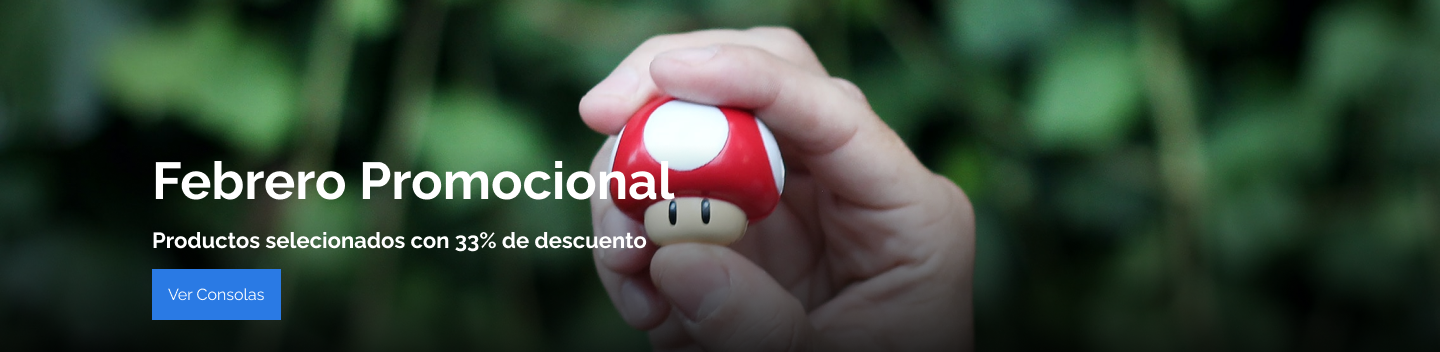
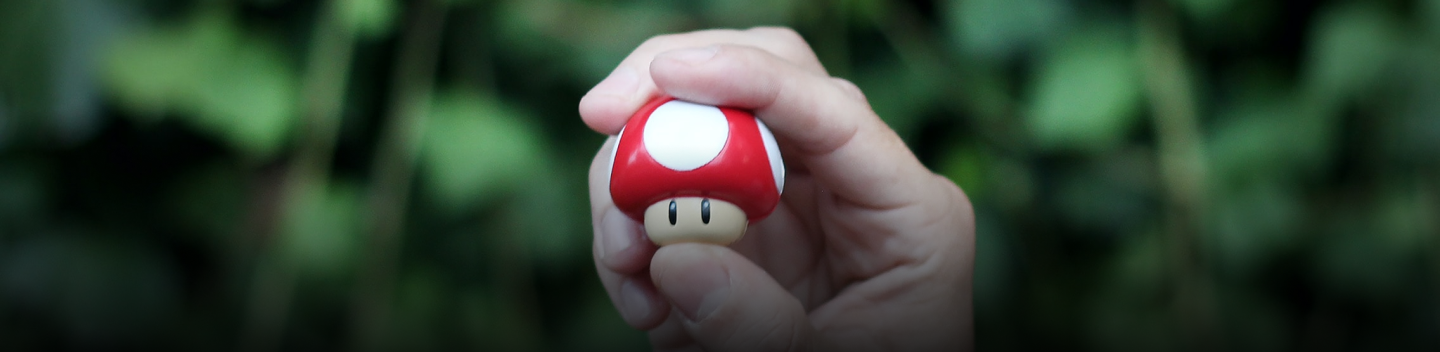
Diseño de header responsive

Changed region(s): [[0.0938, 0.4375, 0.4688, 0.5625], [0.0938, 0.6562, 0.4688, 0.7188], [0.0938, 0.75, 0.2188, 0.9062]]

diff --git a/css/header.css b/css/header.css
@@ -1,16 +1,17 @@
 .header__container{
     padding-top: 20px;
     display: flex;
-    justify-content: space-around;
+    justify-content: space-between;
     margin-bottom: 30px;
+
 }
 .header__buscador{
-    padding: 8px 80px 8px 80px;
+    padding: 8px 200px 8px 10px;
     background-color: #F5F5F5;
     border-radius: 20px;
     border: none;
-    text-align: left;
     margin-top: 10px;
+    
 }
 .header__logo{
     max-width: 176px;
@@ -24,18 +25,51 @@
 }
 .header__boton{
     position: relative;
-    color:var(--fuente-celeste);
+    color:var(--background-azul);
     padding: 10px 50px 10px 50px;
-    border: 1px solid var(--fuente-celeste);
+    border: 1px solid var(--fuente-azul);
     top: 15px;
+    font-family: var(--raleway);
+    font-weight: 500 ;
+}
+.header__boton:hover{
+    background-color: var(--background-celeste);
 }
 .header__encabezado{
+    position: static;
+}
+.header__encabezado img{
     width: 100%;
-    height: 400px;
-
+    background: linear-gradient(180deg, rgba(0, 0, 0, 0) 41.15%, rgba(0, 0, 0, 0.8) 100%);
+}
+.header__promociones{
+    position: absolute;
+    top: 215px;
+    color: #fff;
+    font-family: var(--raleway);
+    line-height: 1.5;
+}
+.header__promociones h1{
+    font-weight: 700 ;
+    font-size: 52px;
+}
+.header__promociones p{
+    font-size: 22px;
+    margin-bottom: 20px;
+    font-weight: 500;
+}
+.header__promociones a{
+    font-size: 14px;
+    font-weight: 400;
+    padding: 10px 20px 10px 20px;
+    background-color: var(--background-azul);
+}
+.header__promociones a:hover{
+    background-color: #6A7AE4;
 }
 
-@media (max-width:768px) {
+
+@media (max-width: 769px) {
     .header__container{
         justify-content: flex-start;
         margin-bottom: 30px;
@@ -58,7 +92,17 @@
         margin-left: 30px;
         top: 5px;
     }
-    .header__encabezado{
+    .header__encabezado img{
+        height: 170px;
     }
-
+    .header__promociones{
+        top: 150px;
+        line-height: 1;
+    }
+    .header__promociones h1{
+        font-size: 30px;
+    }
+    .header__promociones p {
+        font-size: 15px;
+    }
 }

diff --git a/index.html b/index.html
@@ -12,12 +12,12 @@
     <link rel="stylesheet" href="css/style.css">
     <link rel="stylesheet" href="css/reset.css">
     <link href="https://fonts.googleapis.com/css2?family=Raleway:wght@400;500;700&display=swap" rel="stylesheet">
-
+    <link href="https://fonts.googleapis.com/css2?family=Montserrat:wght@300;400;700&family=Open+Sans:wght@300;400;700&display=swap" rel="stylesheet">
 
 </head>
 <body>
-    <header class="header">
-        <div class="header__container">
+    <header class="header ">
+        <div class="header__container container">
             <div>
                 <img class="header__logo" src="img/Logo.svg" alt="">
             </div>
@@ -26,19 +26,23 @@
                 <img class="header__icon" src="img/Vector.png" alt="">
             </div>
             <div>
-                <a class="header__boton" href="">Login</a>
+                <a class="header__boton boton" href="">Login</a>
             </div>            
         </div>
+        <section>
+            <div class="header__encabezado"> 
+                <img  src="img/Hero.png" alt="">
+                <div class="header__promociones container">
+                    <h1>Febrero Promocional</h1>
+                    <p>Productos selecionados con 33% de descuento</p>
+                    <a class="" href="" >Ver Consolas</a>
+                </div>
+                 
+            </div>            
+        </section>
+
     </header>
     <main>
-        <section>
-             <div > 
-                <img class="header__encabezado" src="img/Hero.png" alt="">
-                <h1>Febrero Promocional</h1>
-                <p>Productos selecionadoscon 33% de descuento</p>
-                <a href="">Ver Consolas</a>
-            </div>
-        </section>
         <section class="container__productos">
             <div class="container__starWars">
                 <h2>Star Wars</h2>

diff --git a/css/style.css b/css/style.css
@@ -1,17 +1,21 @@
 :root{
     --background-blanco: #FFFFFF;
     --background-celeste: #EAF2FD;
+    --background-azul: #2A7AE4; ;
     --background-gris: #E5E5E5;
     --fuente-preto: #464646;
-    --fuente-celeste: #2A7AE4;
+    --fuente-azul: #2A7AE4;
+    --montserrat: 'Monserrat', sans-serif;
+    --open-sans: 'Open Sans', sans-serif;
+    --raleway: 'Raleway', sans-serif;
 }
 
-body{
-    font-family: 'Raleway', sans-serif;
-    font-weight: 400;
+*{
+    font-family: var(--raleway);
 }
-h1{
-    color: var(--fuente-preto);
-    font-size: 30px;
-    font-weight: 700 ;
+.container{
+    padding-right: 6%;
+    padding-left: 6%;
 }
+
+ 
